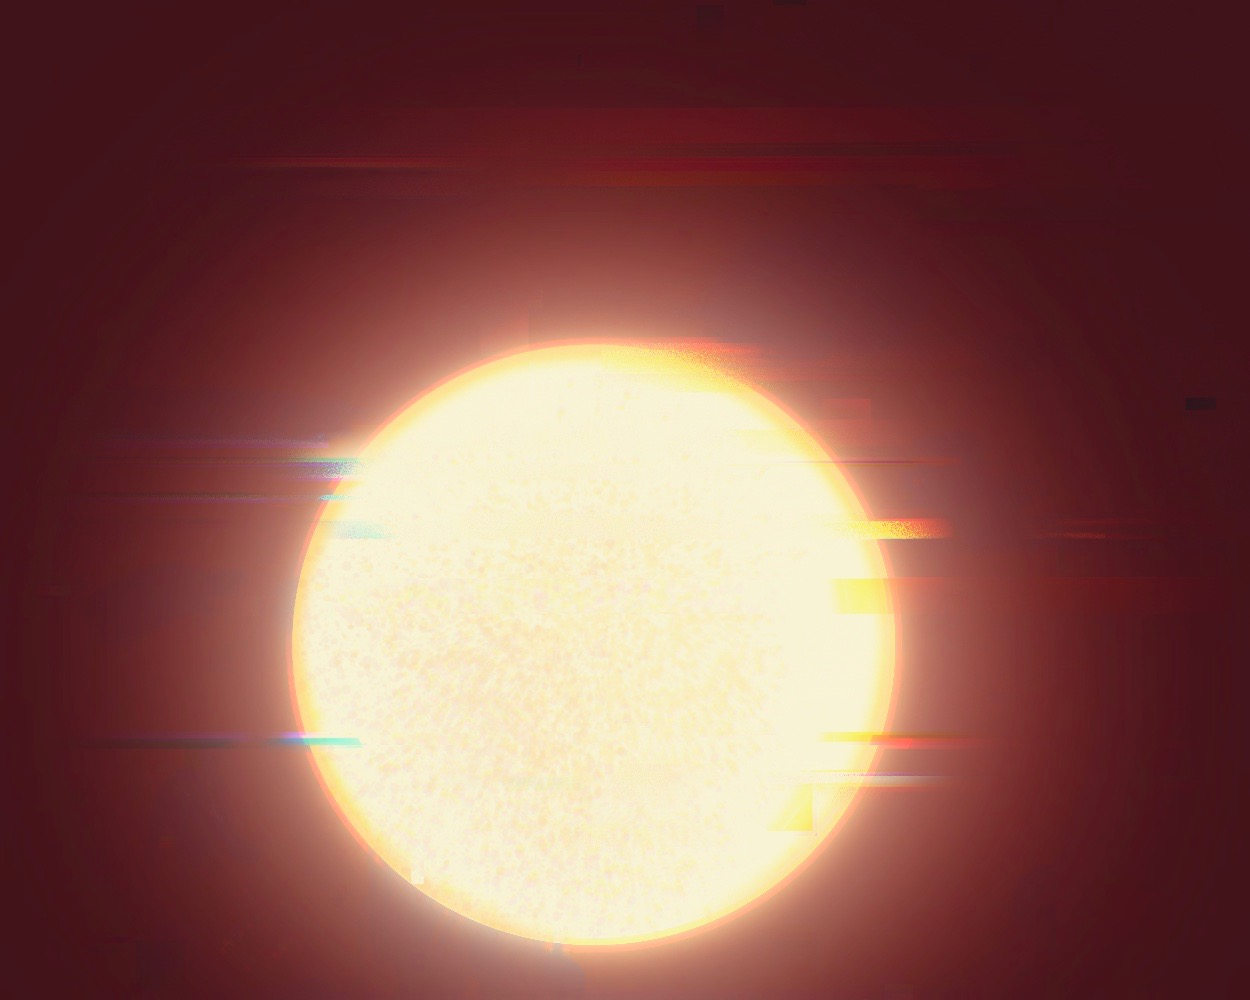
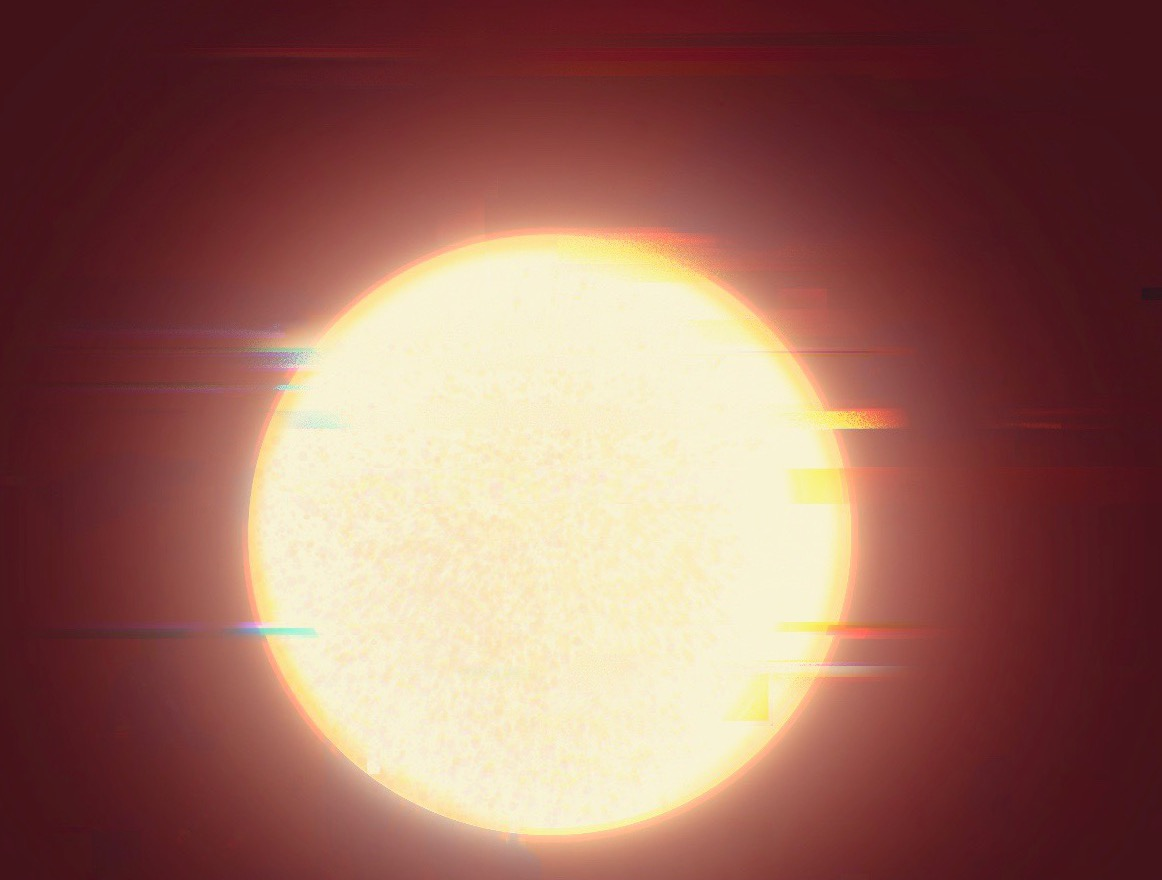
Backdrop fade tuning + moon image cleanup
- trimmed the moon jpeg's dark top strip and right band (the visible
  'line in the red sky' was the image's own hard edge)
- GIANT: full colour from the right through 75%, clean fade on the
  leftmost quarter only (30% -> 25%)
- WalkBoy: fuller centre, narrower side fades (22/78 -> 14/86)

diff --git a/home.html b/home.html
@@ -167,12 +167,12 @@
   .backdrop .bdref{ transform:scaleY(-1); background-position:50% 100%; opacity:.22; filter:brightness(.92);
     -webkit-mask-image:linear-gradient(to bottom, transparent 0, #000 60%);
             mask-image:linear-gradient(to bottom, transparent 0, #000 60%); }
-  /* WalkBoy = a CORRIDOR: full top-to-bottom, fading only on the two sides */
-  #backSun{ -webkit-mask-image:linear-gradient(to right, transparent 0, #000 22%, #000 78%, transparent 100%);
-                    mask-image:linear-gradient(to right, transparent 0, #000 22%, #000 78%, transparent 100%); }
-  /* GIANT = open to the RIGHT edge of the screen, fading only on the left */
-  #backMoon{ -webkit-mask-image:linear-gradient(to right, transparent 0, #000 30%, #000 100%);
-                     mask-image:linear-gradient(to right, transparent 0, #000 30%, #000 100%); }
+  /* WalkBoy = a CORRIDOR: full colour through the centre, just a LITTLE fade on each side */
+  #backSun{ -webkit-mask-image:linear-gradient(to right, transparent 0, #000 14%, #000 86%, transparent 100%);
+                    mask-image:linear-gradient(to right, transparent 0, #000 14%, #000 86%, transparent 100%); }
+  /* GIANT = open to the RIGHT edge: FULL colour from 25% → 100%, one clean fade on the leftmost quarter */
+  #backMoon{ -webkit-mask-image:linear-gradient(to right, transparent 0, #000 25%, #000 100%);
+                     mask-image:linear-gradient(to right, transparent 0, #000 25%, #000 100%); }
   #backMoon .bd,#backMoon .bdref{ background-image:url(assets/back-moon.jpeg); }
   #backSun .bd,#backSun .bdref{ background-image:url(assets/back-sun.jpeg); }
   body.clouds-in #backMoon{ opacity:.92; }